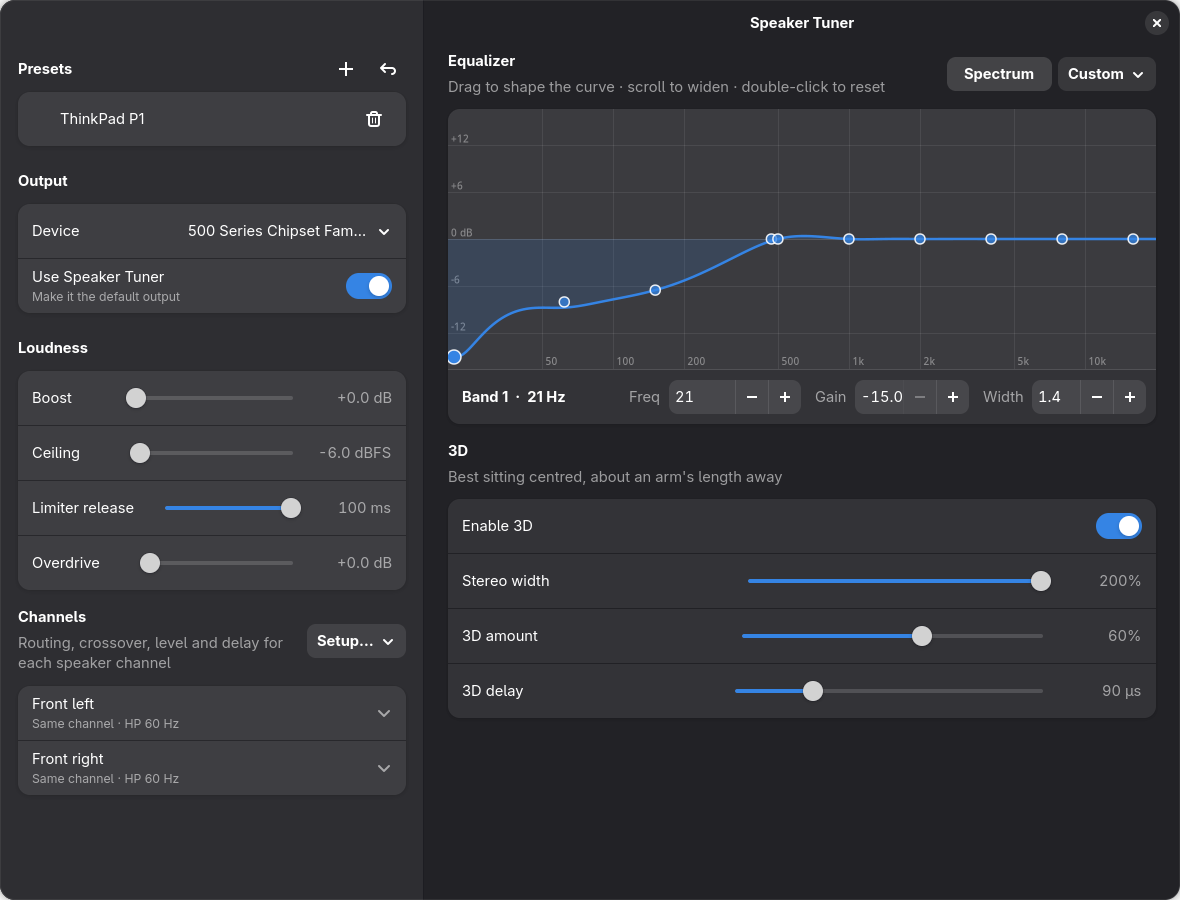
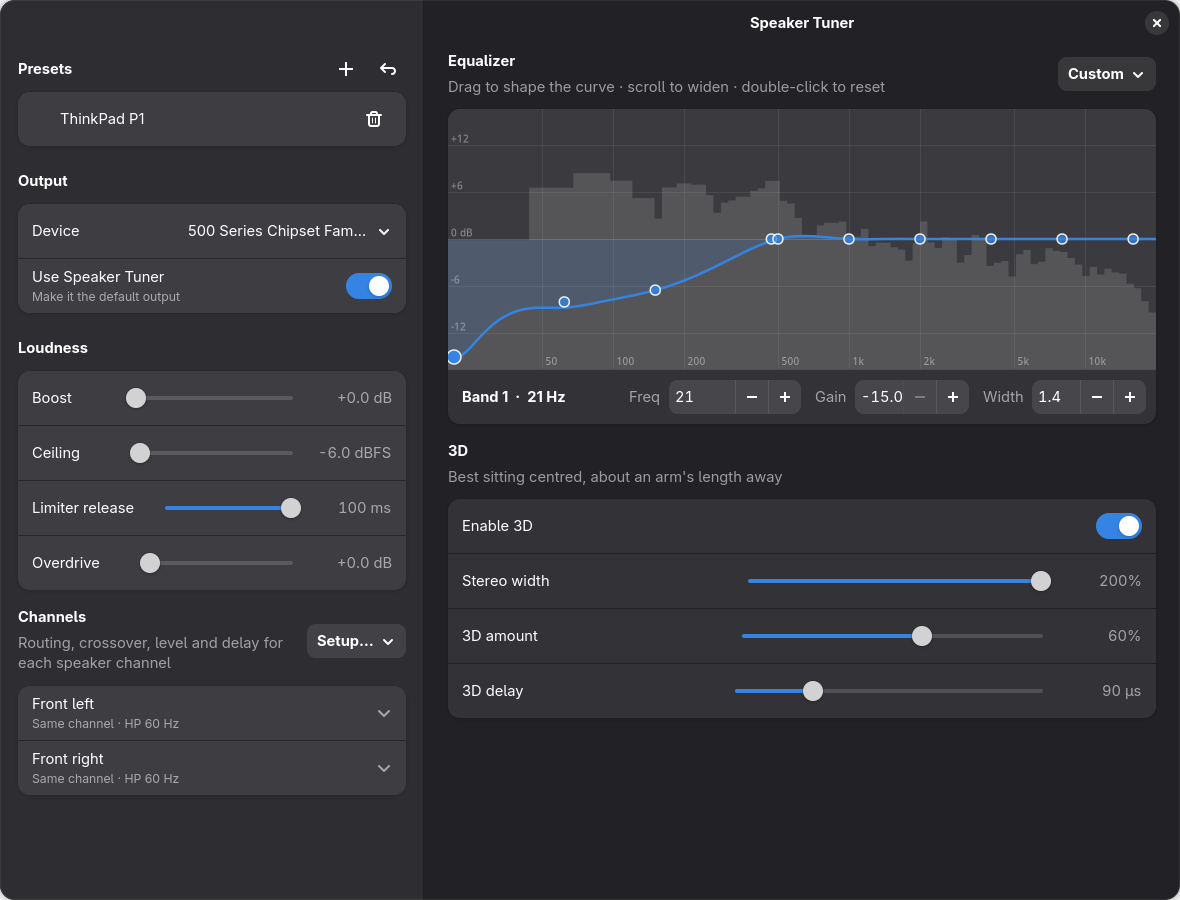
Spectrum is always on; remove the toggle

Changed region(s): [[0.3966, 0.1867, 1.0, 0.4356], [0.7932, 0.0622, 0.9153, 0.1244]]

diff --git a/speaker_tuner.py b/speaker_tuner.py
@@ -77,7 +77,6 @@ DEFAULTS = {
     "width_pct": 100.0,
     "xtc_pct": 0.0,
     "xtc_us": 90.0,
-    "spectrum_on": True,
 }
 DEVICE_KEYS = ("target_sink", "target_positions")  # per-machine, not stored in profiles
 
@@ -841,7 +840,7 @@ class EqGraph(Gtk.DrawingArea):
 
         # live spectrum (own scale: SPEC_FLOOR..0 dBFS over the full height)
         an = self.win.analyzer
-        if self.win.s["spectrum_on"] and an.proc:
+        if an.proc:
             cr.move_to(0, h)
             for c, lvl in enumerate(an.levels):
                 x0 = self.x_of(an.edges[c], w)
@@ -985,9 +984,6 @@ class Window(Adw.ApplicationWindow):
                                  description="Drag to shape the curve · scroll to widen · double-click to reset")
         right.append(g)
         hdr = Gtk.Box(spacing=6, valign=Gtk.Align.CENTER)
-        self.spectrum_btn = Gtk.ToggleButton(label="Spectrum", tooltip_text="Show the live output spectrum")
-        self.spectrum_btn.connect("toggled", self.on_spectrum_toggled)
-        hdr.append(self.spectrum_btn)
         self.presets = Gtk.DropDown.new_from_strings(["Custom"] + list(PRESETS))
         self.presets.connect("notify::selected", self.on_preset)
         hdr.append(self.presets)
@@ -1095,7 +1091,6 @@ class Window(Adw.ApplicationWindow):
         self.spatial_row.set_active(self.s["spatial_on"])
         for r in self.spatial_sliders:
             r.set_sensitive(self.s["spatial_on"])
-        self.spectrum_btn.set_active(self.s["spectrum_on"])
 
     def sync_ui(self):
         was, self.building = self.building, True
@@ -1308,15 +1303,8 @@ class Window(Adw.ApplicationWindow):
         self.s["bands"] = [{"f": float(f), "t": float(g), "g": float(g), "q": EQ_Q} for f, g in zip(EQ_FREQS, gains)]
         self.on_bands_changed()
 
-    def on_spectrum_toggled(self, btn):
-        if self.building:
-            return
-        self.s["spectrum_on"] = btn.get_active()
-        self.update_analyzer()
-        self.schedule_apply()
-
     def update_analyzer(self):
-        if self.s["spectrum_on"] and self.get_visible():
+        if self.get_visible():  # spectrum runs whenever the window is open
             self.analyzer.start(self.s["target_sink"])
         else:
             self.analyzer.stop()
